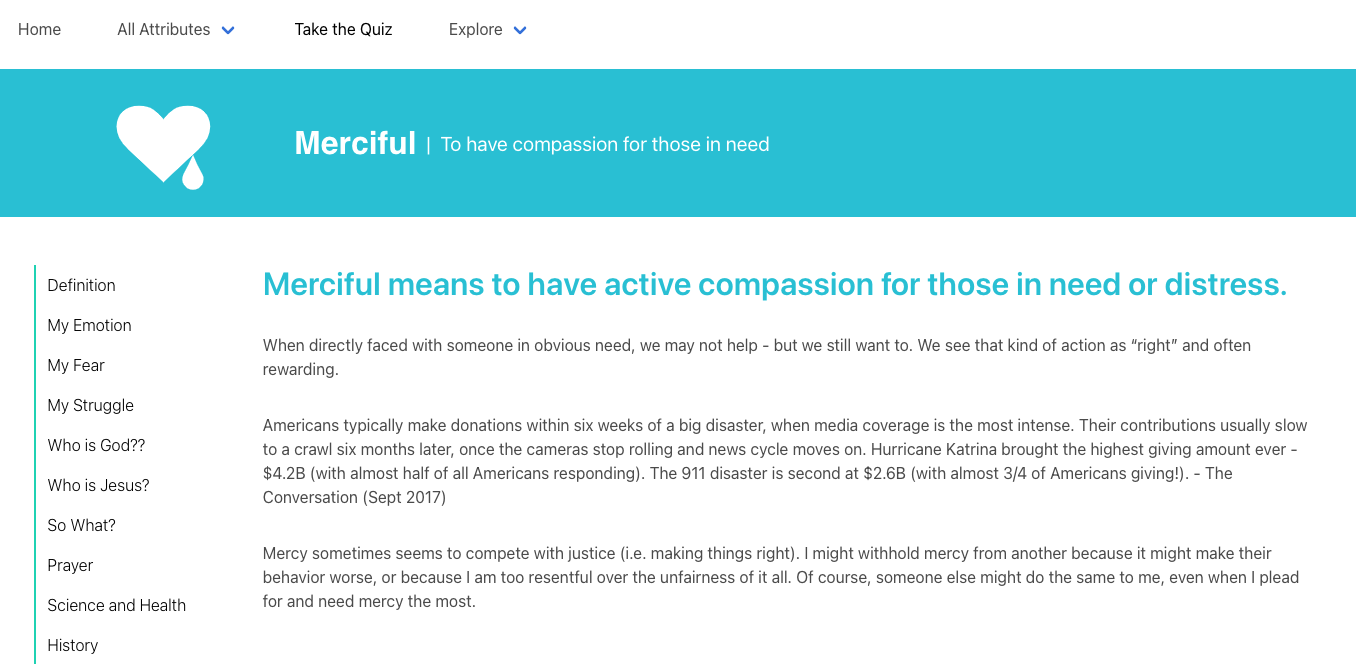
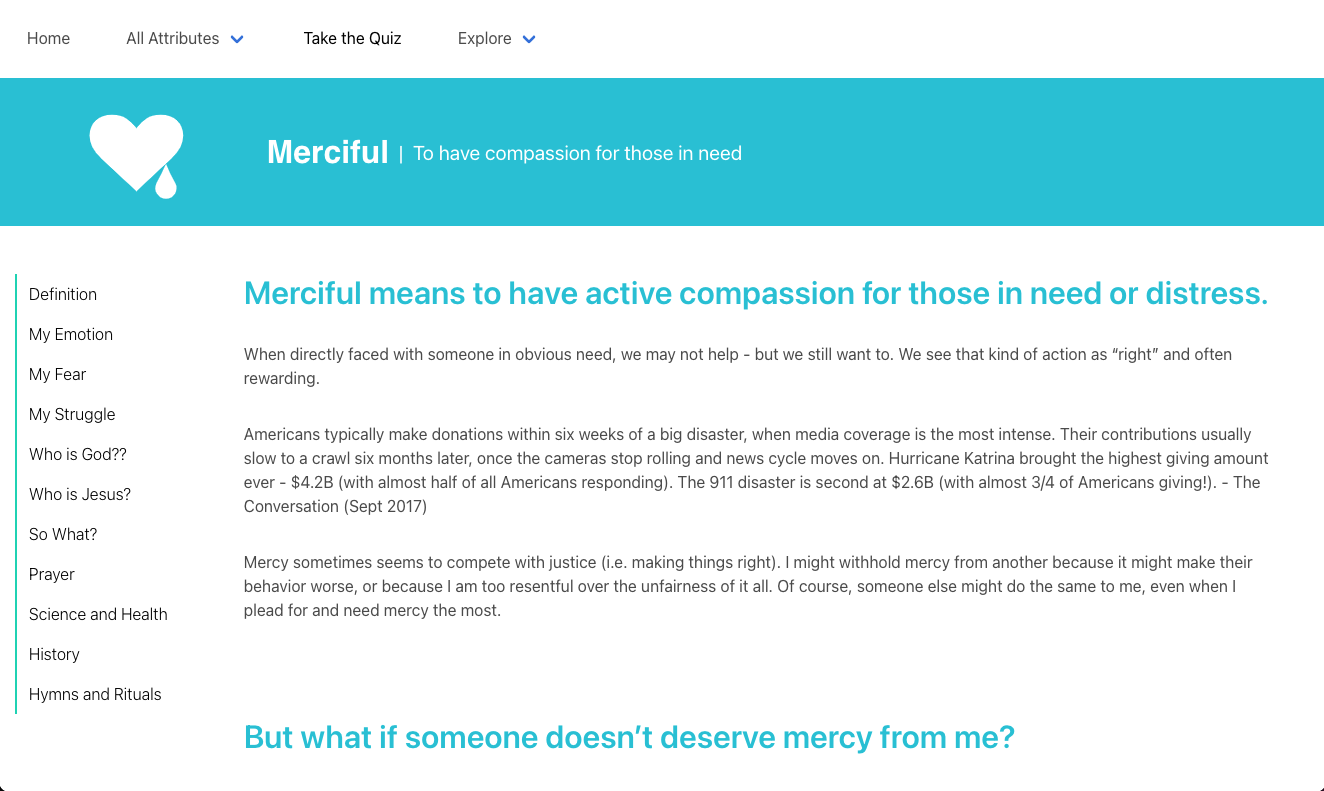
updated font, links

diff --git a/src/components/Projects/Projects.vue b/src/components/Projects/Projects.vue
@@ -4,8 +4,10 @@
       <div class="hero-body">
         <div class="columns">
           <div class="column is-one-third project-description">
-            <p class="headline title has-text-black">Scoot Scout</p>
-            <p class="subtitle">React.js, JSON server, Leaflet, Mapbox, several APIs</p>
+            <p class="headline title has-text-black">scoot scout</p>
+            <p class="subtitle">bootcamp front end capstone
+              <br><span class="has-text-weight-light is-size-6">TECH: React.js, JSON server, Leaflet, Mapbox, various APIs</span>
+            </p>
             <p>Electric scooters have revolutionized the way city dwellers get around, and more and more scooter companies are popping up to meet the demand. But why waste time opening up each company's app to locate your nearest ride?
             At Scoot Scout, we aren't brand loyal; we're scoot loyal. Simply open up the app, and you can see all the scooters near you. Yeah. Take that, Big Scooter.</p>
             <p class="mt-4 is-size-5 has-text-weight-bold">
@@ -22,7 +24,7 @@
     </section>
     <section class="hero is-fullheight-with-navbar has-background-primary">
       <div class="hero-body">
-        <div class="columns">
+        <div class="columns reverse-columns">
           <div class="column">
             <div class="tile is-ancestor">
               <div class="tile is-parent is-6">
@@ -32,7 +34,7 @@
               </div>
               <div class="tile is-parent is-6">
                 <figure class="image attribute-image">
-                  <img src="@/assets/images/attributes-detail.png">
+                  <img src="@/assets/images/attributes-personality.png">
                 </figure>
               </div>
             </div>
@@ -44,17 +46,19 @@
               </div>
               <div class="tile is-parent is-6">
                 <figure class="image attribute-image">
-                  <img src="@/assets/images/attributes-personality.png">
+                  <img src="@/assets/images/attributes-detail.png">
                 </figure>
               </div>
             </div>
           </div>
           <div class="column is-one-third project-description">
-            <p class="headline title has-text-black">Attribute Project</p>
-            <p class="subtitle">Tech used: React, Google Firebase</p>
-            <p>A friend's passion project - this site (yet to be published) allows you to take a quiz to find your "spiritual personality." Think of it like finding out your Enneagram or Myers Briggs type.</p>
+            <p class="headline title has-text-black">attributes of god</p>
+            <p class="subtitle">client project (in progress)
+              <br><span class="has-text-weight-light is-size-6">TECH: React.js, Bulma, Google Firebase</span>
+            </p>
+            <p>Discover your "spiritual personality" through quizzes, your interests, or your type from other popular personality frameworks like the Enneagram and Myers Briggs.</p>
             <p class="mt-4 is-size-5 has-text-weight-bold">
-              <a href="https://youtu.be/BUvpbtT1OBQ" target="_blank" class="attribute-link">View on Github --></a>
+              <a href="https://github.com/carlybergthold/attributes" target="_blank" class="attribute-link">View on Github --></a>
             </p>
           </div>
 
@@ -67,8 +71,6 @@
 
 <style scoped>
 .headline {
-  font-size: 2.5rem;
-  font-weight: 800;
   text-shadow: 1px 1px 0px var(--orange),
 	4px 2px 0px var(--orange),
 	5px 3px 0px var(--orange),
@@ -81,5 +83,11 @@
 }
 .attribute-link {
   color: black;
+}
+@media(max-width: 769px) {
+  .reverse-columns {
+    flex-direction: column-reverse;
+    display: flex;
+  }
 }
 </style>

diff --git a/src/components/HelloWorld.vue b/src/components/HelloWorld.vue
@@ -4,32 +4,36 @@
       <div class="container has-text-centered">
         <p class="headline title has-text-black">
           software engineer</p>
-        <p class="subtitle">+ travel fiend, amateur cook, & bright yellow bike rider</p>
+        <p class="subtitle">+ travel fiend, amateur chef, & bright yellow bike rider</p>
       </div>
     </div>
     <div class="hero-foot">
-      <nav class="tabs is-fullwidth">
         <div class="container has-text-centered">
-          <b-icon
-              pack="fab"
-              icon="linkedin"
-              size="is-large"
-              type="is-primary">
-          </b-icon>
-          <b-icon
-              pack="fab"
-              icon="github-square"
-              size="is-large"
-              type="is-primary">
-          </b-icon>
-          <b-icon
-              pack="fab"
-              icon="twitter-square"
-              size="is-large"
-              type="is-primary">
-          </b-icon>
+            <a href="https://www.linkedin.com/in/carlybergthold/" target="_blank">
+              <b-icon
+                pack="fab"
+                icon="linkedin"
+                size="is-large"
+                type="is-primary">
+              </b-icon>
+            </a>
+            <a href="https://www.instagram.com/carlymita/" target="_blank">
+              <b-icon
+                pack="fab"
+                icon="instagram"
+                size="is-large"
+                type="is-primary">
+              </b-icon>
+            </a>
+            <a href="https://github.com/carlybergthold" target="_blank">
+              <b-icon
+                pack="fab"
+                icon="github-square"
+                size="is-large"
+                type="is-primary">
+              </b-icon>
+            </a>
         </div>
-      </nav>
     </div>
   </section>
 </template>
@@ -53,7 +57,6 @@ export default {
 }
 .headline {
   font-size: 4rem;
-  font-weight: 800;
   text-shadow: 1px 1px 0px var(--teal),
 	4px 2px 0px var(--teal),
 	5px 3px 0px var(--teal),

diff --git a/src/components/About/About.vue b/src/components/About/About.vue
@@ -2,8 +2,8 @@
   <section class="hero is-fullheight-with-navbar">
     <div class="hero-body">
       <div class="container has-text-centered">
-        <p class="title headline has-text-black">About Me</p>
-        <p class="subtitle">A software developer with a background in digital marketing, I love enhancing web- and app-based user interactions with the power of programming. Learning to code has given me the ability not only to continuously learn and improve, but to give people better experiences with technology while I'm at it.</p>
+        <p class="title headline has-text-black">about me</p>
+        <p class="subtitle mx-6">A software developer with a background in digital marketing, I love enhancing web- and app-based user interactions with the power of programming. Learning to code has given me the ability not only to continuously learn and improve, but to give people better experiences with technology while I'm at it.</p>
       </div>
     </div>
   </section>
@@ -27,7 +27,6 @@ export default {
 <style scoped>
 .headline {
   font-size: 3rem;
-  font-weight: 800;
   text-shadow: 1px 1px 0px var(--yellow),
 	4px 2px 0px var(--yellow),
 	5px 3px 0px var(--yellow),

diff --git a/src/components/Nav/TopNav.vue b/src/components/Nav/TopNav.vue
@@ -61,20 +61,15 @@
     </template>
 
     <template #end>
+      <b-navbar-item v-if="!$mq.above(1023)">
+        <router-link to="/home" class="nav-link">Home</router-link>
+      </b-navbar-item>
       <b-navbar-item>
         <router-link to="/about" class="nav-link">About</router-link>
       </b-navbar-item>
       <b-navbar-item>
         <router-link to="/projects" class="nav-link">Projects</router-link>
       </b-navbar-item>
-      <!-- <b-navbar-dropdown label="Projects" class="nav-link">
-        <b-navbar-item>
-          <router-link to="/projects">Projects</router-link>
-        </b-navbar-item>
-        <b-navbar-item>
-          <router-link to="/animation">Animation</router-link>
-        </b-navbar-item>
-      </b-navbar-dropdown> -->
     </template>
   </b-navbar>
 </template>

diff --git a/public/index.html b/public/index.html
@@ -6,6 +6,8 @@
     <meta name="viewport" content="width=device-width,initial-scale=1.0">
     <link rel="icon" href="<%= BASE_URL %>favicon.ico">
     <title><%= htmlWebpackPlugin.options.title %></title>
+    <link rel="preconnect" href="https://fonts.gstatic.com">
+    <link href="https://fonts.googleapis.com/css2?family=Noto+Sans+JP:wght@100;300;400;500;700;900&display=swap" rel="stylesheet">
   </head>
   <body>
     <noscript>

diff --git a/src/App.vue b/src/App.vue
@@ -18,7 +18,7 @@ export default {
 
 <style>
 #app {
-  font-family: 'Montserrat', sans-serif;
+  font-family: 'Noto Sans JP', sans-serif;
 }
 .hero {
   background-color: var(--bg-main);
